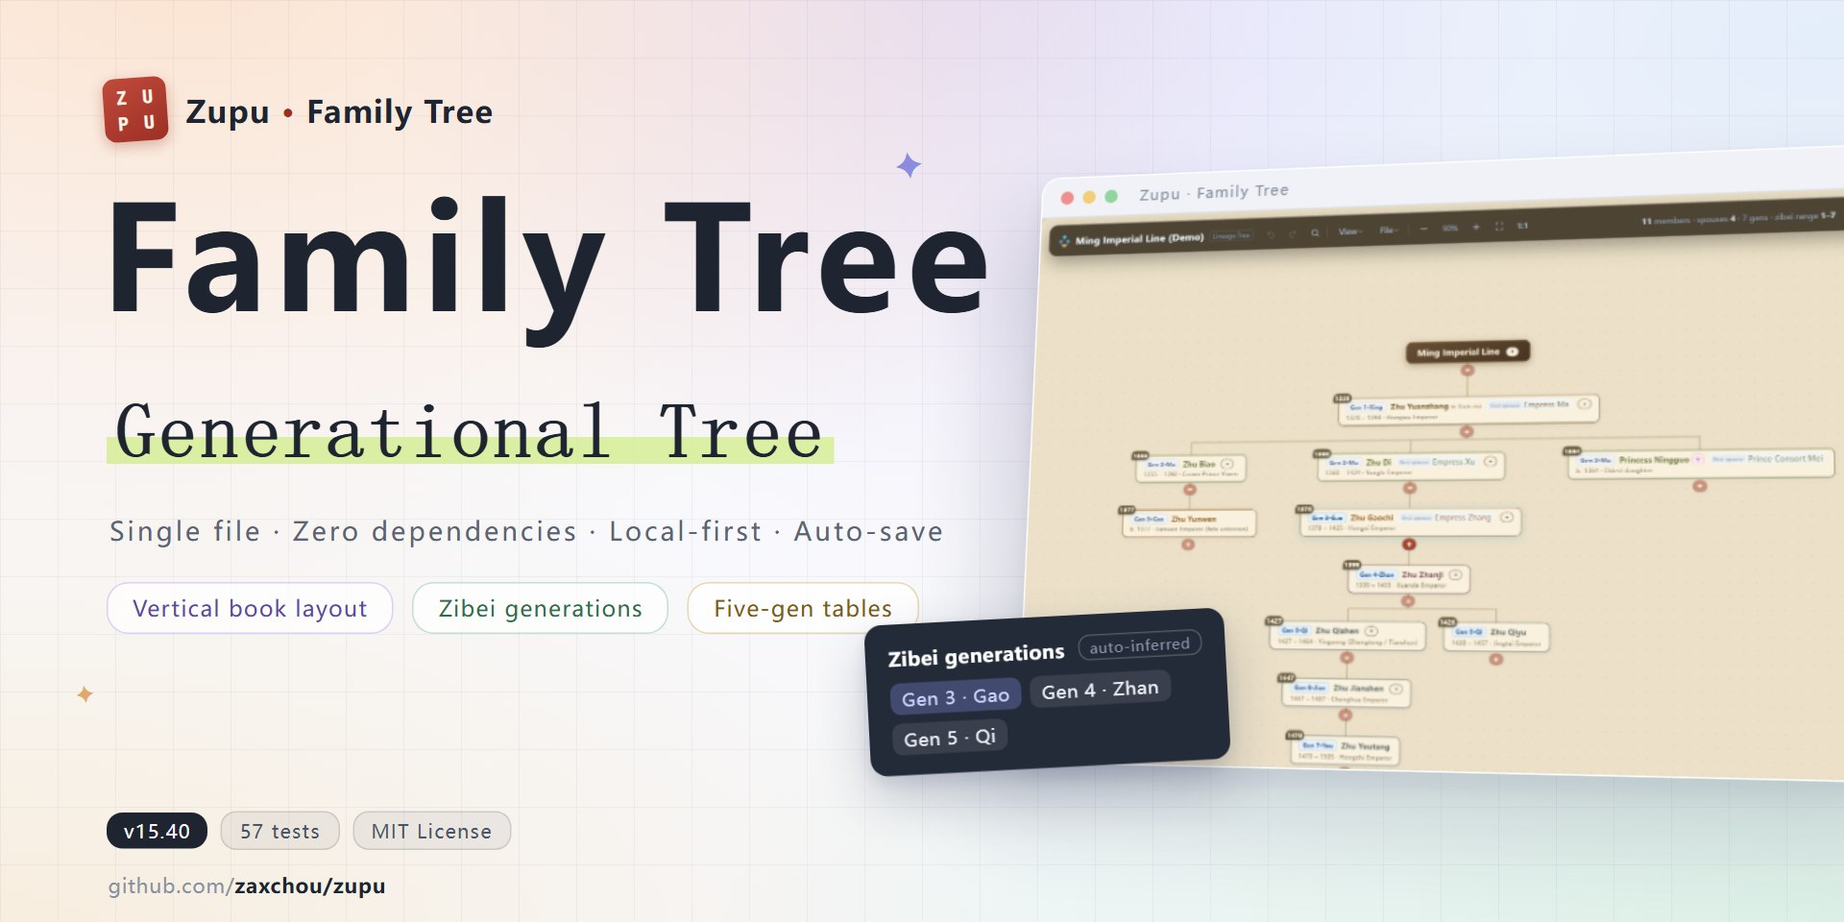
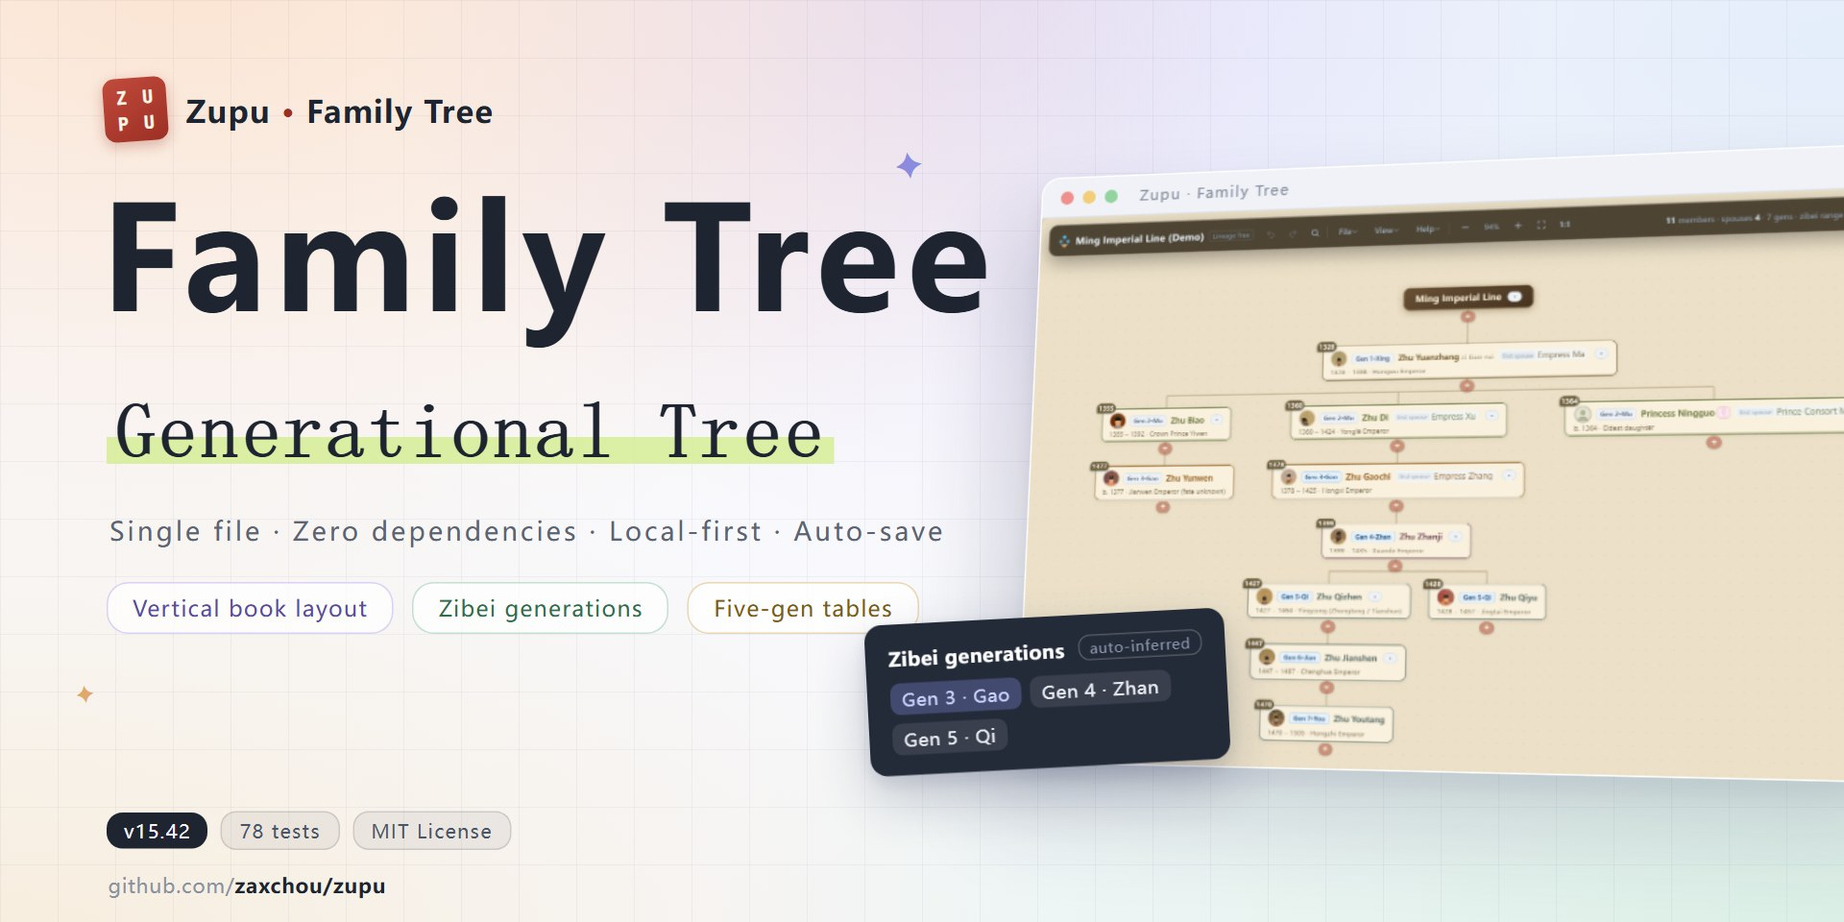
v15.42: refresh README, screenshots and covers; release notes

Changed region(s): [[0.5938, 0.2812, 1.0, 0.8438], [0.7812, 0.2188, 0.8125, 0.25]]

diff --git a/docs/_cover-v4.html b/docs/_cover-v4.html
@@ -116,7 +116,7 @@
   </div>
 
   <div class="foot">
-    <div class="tag">v15.40</div><div class="tag o">57 测试用例</div><div class="tag o">MIT License</div>
+    <div class="tag">v15.42</div><div class="tag o">78 测试用例</div><div class="tag o">MIT License</div>
   </div>
   <div class="github">github.com/<b>zaxchou/zupu</b></div>
 </body>

diff --git a/docs/_cover-zh-Hant-v4.html b/docs/_cover-zh-Hant-v4.html
@@ -116,7 +116,7 @@
   </div>
 
   <div class="foot">
-    <div class="tag">v15.40</div><div class="tag o">57 測試用例</div><div class="tag o">MIT License</div>
+    <div class="tag">v15.42</div><div class="tag o">78 測試用例</div><div class="tag o">MIT License</div>
   </div>
   <div class="github">github.com/<b>zaxchou/zupu</b></div>
 </body>

diff --git a/docs/_cover-ja-v4.html b/docs/_cover-ja-v4.html
@@ -117,7 +117,7 @@
   </div>
 
   <div class="foot">
-    <div class="tag">v15.40</div><div class="tag o">57 テスト</div><div class="tag o">MIT License</div>
+    <div class="tag">v15.42</div><div class="tag o">78 テスト</div><div class="tag o">MIT License</div>
   </div>
   <div class="github">github.com/<b>zaxchou/zupu</b></div>
 </body>

diff --git a/docs/_cover-en-v4.html b/docs/_cover-en-v4.html
@@ -117,7 +117,7 @@
   </div>
 
   <div class="foot">
-    <div class="tag">v15.40</div><div class="tag o">57 tests</div><div class="tag o">MIT License</div>
+    <div class="tag">v15.42</div><div class="tag o">78 tests</div><div class="tag o">MIT License</div>
   </div>
   <div class="github">github.com/<b>zaxchou/zupu</b></div>
 </body>

diff --git a/tools/build_covers.py b/tools/build_covers.py
@@ -11,11 +11,11 @@ import sys
 
 ROOT = os.path.dirname(os.path.dirname(os.path.abspath(__file__)))
 
-VERSION = 'v15.40'
-OLD_VERSION = 'v15.38'
+VERSION = 'v15.42'
+OLD_VERSION = 'v15.41'
 SUFFIXES = {'': '-v4', '-en': '-en-v4', '-ja': '-ja-v4', '-zh-Hant': '-zh-Hant-v4'}
-OLD_TAGS = {'': '55 测试用例', '-en': '55 tests', '-ja': '55 テスト', '-zh-Hant': '55 測試用例'}
-NEW_TAGS = {'': '57 测试用例', '-en': '57 tests', '-ja': '57 テスト', '-zh-Hant': '57 測試用例'}
+OLD_TAGS = {'': '57 测试用例', '-en': '57 tests', '-ja': '57 テスト', '-zh-Hant': '57 測試用例'}
+NEW_TAGS = {'': '78 测试用例', '-en': '78 tests', '-ja': '78 テスト', '-zh-Hant': '78 測試用例'}
 
 
 def update_template(suffix):

diff --git a/README.ja.md b/README.ja.md
@@ -2,14 +2,14 @@
 
 [简体中文](README.md) | [繁體中文](README.zh-Hant.md) | [English](README.en.md) | **日本語**
 
-<img src="docs/cover-ja.jpg?v=15.40" alt="家系図・伝代ツリー" width="100%">
+<img src="docs/cover-ja.jpg?v=15.42" alt="家系図・伝代ツリー" width="100%">
 
 # 家系図・伝代ツリー (Zupu)
 
 **ダブルクリックで使える電子家系図：家族を記録し、世代を自動判定、印刷して製本**
 
-[![Version](https://img.shields.io/badge/version-v15.40-b03a2e)](CHANGELOG.md)
-[![Tests](https://img.shields.io/badge/tests-57%20passing-2f6390)](tests)
+[![Version](https://img.shields.io/badge/version-v15.42-b03a2e)](CHANGELOG.md)
+[![Tests](https://img.shields.io/badge/tests-78%20passing-2f6390)](tests)
 [![Dependencies](https://img.shields.io/badge/dependencies-0-3c7a4e)]()
 [![License](https://img.shields.io/badge/license-MIT-8a7d68)](LICENSE)
 [![オンラインで試す](https://img.shields.io/badge/オンライン-デモ-b03a2e)](https://zaxchou.github.io/zupu/)
@@ -26,7 +26,7 @@
 
 | 通常ツリー | 譜書縦書き（古法） |
 | --- | --- |
-| ![通常ツリー](docs/preview-tree-ja.png?v=15.38) | ![縦書き](docs/preview-vertical-ja.png?v=15.38) |
+| ![通常ツリー](docs/preview-tree-ja.png?v=15.42) | ![縦書き](docs/preview-vertical-ja.png?v=15.42) |
 
 **譜書縦書き（古法）**は伝統的な族譜の体裁を再現：世代ごとに行をまとめ、名を縦書き
 （右→左）、行の左に世代を表示——印刷 / PDF 出力すればそのまま**製本できます**。
@@ -37,6 +37,16 @@
   ドラッグして兄弟の順序を変更。別のカードに重ねれば養縁。Ctrl+Z でいつでも元に戻る
 - **スマホ / タブレットも快適** — ドラッグで順序変更、長押しでメニュー、
   ダブルタップで改名、ピンチで拡大縮小。画面が狭いと表示を自動調整
+- **家族に写真を** — 「人物情報」で「写真を追加」すると、カードに丸いアバターが付いて
+  クリックで拡大。「ファイル ▾ → 写真フォルダを取り込む…」ならファイル名で自動照合して
+  一括設定。バックアップにオリジナルを添付することもでき、書き出した画像 / PDF にも
+  アバターが入ります
+- **見た目はワンクリックで切替** — 「表示 ▾ → 表示設定…」にまとまっています：配置方向4種
+  （上から下 / 下から上 / 左から右 / 右から左）、配色3種（羊皮紙 / 晴空 / ダーク）、
+  横書き / 譜書縦書きも、クリックしたその場で反映。再読み込み不要
+- **スクロールで拡大縮小、ドラッグで移動** — ホイールでそのままズーム、空白をつかんで
+  ドラッグで移動と、地図アプリ感覚。従来式のほうがよければ表示設定でオフにできます
+  （ホイールは画面のスクロール、Ctrl＋スクロールで拡大縮小）
 - **名前を書けば世代を自動判定** — 字輩表（例：明皇室の字輩詩「高瞻祁见祐」）を貼れば、各メンバーの
   世代を自動表示。譜書の世代数（廿三世など）とも基準合わせできます
 - **印刷すれば本物の譜書の体裁** — 縦書き、世代ごとの行、五世一表。PDF で書き出して
@@ -62,7 +72,7 @@
 **方法 2**：`git clone` して `index-ja.html` をダブルクリック。
 
 自分の家族を記録する：名前をダブルクリックで変更、「＋」でメンバー追加、
-「表示 ▾ → 譜序」で譜名 / 字輩表 / 系統を設定——すべて自分の家のものに。
+「ファイル ▾ → 譜序…」で譜名 / 字輩表 / 系統を設定——すべて自分の家のものに。
 
 ## ❓ よくある質問
 

diff --git a/README.en.md b/README.en.md
@@ -2,14 +2,14 @@
 
 [简体中文](README.md) | [繁體中文](README.zh-Hant.md) | **English** | [日本語](README.ja.md)
 
-<img src="docs/cover-en.jpg?v=15.40" alt="Zupu · Family Tree" width="100%">
+<img src="docs/cover-en.jpg?v=15.42" alt="Zupu · Family Tree" width="100%">
 
 # Zupu · Family Tree
 
 **A double-click electronic genealogy: record your family, auto-number generations, print & bind**
 
-[![Version](https://img.shields.io/badge/version-v15.40-b03a2e)](CHANGELOG.md)
-[![Tests](https://img.shields.io/badge/tests-57%20passing-2f6390)](tests)
+[![Version](https://img.shields.io/badge/version-v15.42-b03a2e)](CHANGELOG.md)
+[![Tests](https://img.shields.io/badge/tests-78%20passing-2f6390)](tests)
 [![Dependencies](https://img.shields.io/badge/dependencies-0-3c7a4e)]()
 [![License](https://img.shields.io/badge/license-MIT-8a7d68)](LICENSE)
 [![Try online](https://img.shields.io/badge/try%20it-online-b03a2e)](https://zaxchou.github.io/zupu/)
@@ -26,7 +26,7 @@ browser, and every change is saved automatically.
 
 | Standard tree | In-page profile editor |
 | --- | --- |
-| ![Standard tree](docs/preview-tree-en.png?v=15.38) | ![Profile editor](docs/preview-vertical-en.png?v=15.38) |
+| ![Standard tree](docs/preview-tree-en.png?v=15.42) | ![Profile editor](docs/preview-vertical-en.png?v=15.42) |
 
 Every member has an **in-page profile editor** (name, dates, sex, adoption, courtesy /
 art names, spouse terms, notes). A **vertical book layout** following the conventions
@@ -39,6 +39,17 @@ top-to-bottom (right to left) — print it / export it to PDF and **bind it into
   to reorder siblings; drop one onto another to adopt. Ctrl+Z undoes anything
 - **Made for phones & tablets too** — drag to reorder, long-press for menus,
   double-tap to rename, pinch to zoom; the UI trims itself on small screens
+- **Put a face to every name** — click “Add photo” in the profile and the card instantly
+  shows a round avatar; click the avatar to see it large. “File ▾ → Import photo folder…”
+  matches a whole folder of photos by file name, backups can carry the originals, and
+  exports to PNG / PDF include the avatars
+- **Make it look the way you want** — “View ▾ → Visual settings…” gathers it all in one
+  place: four growth directions (top to bottom / bottom to top / left to right / right to
+  left), three color themes (Parchment / Sky / Dark), horizontal or vertical book layout —
+  every change applies on the spot, no reload
+- **Scroll to zoom, drag to pan** — the wheel zooms straight in and out, and grabbing any
+  empty spot pans the tree, like a map app; prefer the old way? Turn direct zoom off in
+  Visual settings (wheel scrolls the page, Ctrl+scroll zooms)
 - **Names in, generations out** — paste your generation-char list (e.g. the real Ming imperial poem “高瞻祁见祐”) and
   everyone's generation is numbered automatically; align it with your old book, so “the 23rd
   generation” there reads “the 23rd generation” here
@@ -70,7 +81,7 @@ double-click it; a first-run wizard appears:
 **Option 2**: `git clone` this repo and double-click `index-en.html`.
 
 To record your own family: double-click a name to rename, click “＋” to add members,
-“View ▾ → Preface” sets the tree name / generation chars / lineage —
+“File ▾ → Preface…” sets the tree name / generation chars / lineage —
 make it entirely yours.
 
 ## ❓ FAQ

diff --git a/README.md b/README.md
@@ -2,14 +2,14 @@
 
 **中文（简体）** | [繁體中文](README.zh-Hant.md) | [English](README.en.md) | [日本語](README.ja.md)
 
-<img src="docs/cover.jpg?v=15.40" alt="家族族谱 · 传代树" width="100%">
+<img src="docs/cover.jpg?v=15.42" alt="家族族谱 · 传代树" width="100%">
 
 # 家族族谱 · 传代树 (Zupu)
 
 **双击就能用的电子族谱：录入家人、自动算辈分、打印装订成册**
 
-[![Version](https://img.shields.io/badge/version-v15.40-b03a2e)](CHANGELOG.md)
-[![Tests](https://img.shields.io/badge/tests-57%20passing-2f6390)](tests)
+[![Version](https://img.shields.io/badge/version-v15.42-b03a2e)](CHANGELOG.md)
+[![Tests](https://img.shields.io/badge/tests-78%20passing-2f6390)](tests)
 [![Dependencies](https://img.shields.io/badge/dependencies-0-3c7a4e)]()
 [![License](https://img.shields.io/badge/license-MIT-8a7d68)](LICENSE)
 [![在线试用](https://img.shields.io/badge/在线试用-点击演示-b03a2e)](https://zaxchou.github.io/zupu/)
@@ -29,6 +29,14 @@
   拖到别人名下就是过继；做错了 Ctrl+Z 随时撤销
 - **手机 / iPad 也顺手** — 触摸拖动调长幼、长按卡片呼出菜单、双击改名、
   双指捏合缩放；屏幕变窄自动精简界面
+- **给家人配上照片** — 「人员档案」里点「添加照片」，卡片立刻显示圆形头像，点头像看大图；
+  「文件 ▾ → 导入照片文件夹…」按文件名一次配好全家的照片，备份可连原图一起带走，
+  导出图片 / PDF 也带着头像
+- **版式配色，点了就换** — 「查看 ▾ → 视觉设置…」把样式集中在一处：排列方向四选
+  （从上到下 / 从下到上 / 从左到右 / 从右到左），配色三选（羊皮纸 / 晴空 / 暗色），
+  横排 / 谱书竖排即点即换，不用刷新
+- **滚轮直接缩放、拖空白平移** — 像看地图一样顺手；不习惯可在视觉设置里关掉，
+  改回滚轮滚动页面、Ctrl＋滚轮才缩放
 - **名字写上，辈分自动算** — 把你家的字辈贴进去（如明朝皇室字辈诗“高瞻祁见祐”），每个人是第几代自动标出来；
   还能对齐老谱：老谱记“廿三世”，这里也显示“廿三世”
 - **打印出来是一本老谱的样子** — 竖排文字、世代成行、五代一张表，导出 PDF 直接送打印店装订成册；
@@ -41,7 +49,7 @@
 
 | 常规传代树 | 谱书竖排（古法） |
 | --- | --- |
-| ![常规传代树](docs/preview-tree.png?v=15.38) | ![谱书竖排](docs/preview-vertical.png?v=15.38) |
+| ![常规传代树](docs/preview-tree.png?v=15.42) | ![谱书竖排](docs/preview-vertical.png?v=15.42) |
 
 **谱书竖排**按传统修谱版式还原：世代成行、名字竖书（右→左）、行左标世数、墨字吊线——
 打印 / 导出 PDF 即可**装订成册**。
@@ -60,7 +68,7 @@
 
 **方式二**：`git clone` 本仓库后双击 `index.html`。
 
-录入自己家族：双击名字改名、点「＋」添加成员、「视图 ▾ → 谱序」设置谱名 / 堂号 /
+录入自己家族：双击名字改名、点「＋」添加成员、「文件 ▾ → 谱序…」设置谱名 / 堂号 /
 字辈表 / 源流——全部改成你家的。`samples/` 里有真实家族的使用示例可以导入参考。
 
 ## ❓ 常见问题

diff --git a/README.zh-Hant.md b/README.zh-Hant.md
@@ -2,14 +2,14 @@
 
 [简体中文](README.md) | **繁體中文** | [English](README.en.md) | [日本語](README.ja.md)
 
-<img src="docs/cover-zh-Hant.jpg?v=15.40" alt="家族族譜 · 傳代樹" width="100%">
+<img src="docs/cover-zh-Hant.jpg?v=15.42" alt="家族族譜 · 傳代樹" width="100%">
 
 # 家族族譜 · 傳代樹 (Zupu)
 
 **雙擊就能用的電子族譜：錄入家人、自動算輩分、列印裝訂成冊**
 
-[![Version](https://img.shields.io/badge/version-v15.40-b03a2e)](CHANGELOG.md)
-[![Tests](https://img.shields.io/badge/tests-57%20passing-2f6390)](tests)
+[![Version](https://img.shields.io/badge/version-v15.42-b03a2e)](CHANGELOG.md)
+[![Tests](https://img.shields.io/badge/tests-78%20passing-2f6390)](tests)
 [![Dependencies](https://img.shields.io/badge/dependencies-0-3c7a4e)]()
 [![License](https://img.shields.io/badge/license-MIT-8a7d68)](LICENSE)
 [![線上試用](https://img.shields.io/badge/線上試用-點擊演示-b03a2e)](https://zaxchou.github.io/zupu/)
@@ -26,7 +26,7 @@
 
 | 常規傳代樹 | 譜書豎排（古法） |
 | --- | --- |
-| ![常規傳代樹](docs/preview-tree-zh-Hant.png?v=15.38) | ![譜書豎排](docs/preview-vertical-zh-Hant.png?v=15.38) |
+| ![常規傳代樹](docs/preview-tree-zh-Hant.png?v=15.42) | ![譜書豎排](docs/preview-vertical-zh-Hant.png?v=15.42) |
 
 **譜書豎排**按傳統修譜版式還原：世代成行、名字豎書（右→左）、行左標世數、墨字吊線——
 列印 / 匯出 PDF 即可**裝訂成冊**。
@@ -37,6 +37,14 @@
   拖到別人名下就是過繼；做錯了 Ctrl+Z 隨時復原
 - **手機 / iPad 也順手** — 觸控拖動調長幼、長按卡片呼出選單、雙擊改名、
   雙指捏合縮放；螢幕變窄自動精簡介面
+- **為家人配上照片** — 「人員檔案」裡點「新增照片」，卡片立刻顯示圓形頭像，點頭像看大圖；
+  「檔案 ▾ → 匯入照片資料夾…」按檔名一次配好全家的照片，備份可連原圖一起帶走，
+  匯出圖片 / PDF 也帶著頭像
+- **版式配色，點了就換** — 「檢視 ▾ → 視覺設定…」把樣式集中在一處：排列方向四選
+  （從上到下 / 從下到上 / 從左到右 / 從右到左），配色三選（羊皮紙 / 晴空 / 暗色），
+  橫排 / 譜書豎排即點即換，不用重新整理
+- **滾輪直接縮放、拖空白平移** — 像看地圖一樣順手；不習慣可在視覺設定裡關掉，
+  改回滾輪捲動頁面、Ctrl＋滾輪才縮放
 - **名字寫上，輩分自動算** — 把你家的字輩貼進去（如明朝皇室字輩詩「高瞻祁見祐」），每個人是第幾代自動標出來；
   還能對齊老譜：老譜記「廿三世」，這裡也顯示「廿三世」
 - **列印出來是一本老譜的樣子** — 豎排文字、世代成行、五代一張表，匯出 PDF 直接送印刷廠裝訂成冊；
@@ -62,7 +70,7 @@
 
 **方式二**：`git clone` 本倉庫後雙擊 `index-zh-Hant.html`。
 
-錄入自己家族：雙擊名字改名、點「＋」新增成員、「檢視 ▾ → 譜序」設定譜名 / 堂號 /
+錄入自己家族：雙擊名字改名、點「＋」新增成員、「檔案 ▾ → 譜序…」設定譜名 / 堂號 /
 字輩表 / 源流——全部改成你家的。
 
 ## ❓ 常見問題

diff --git a/handoff.md b/handoff.md
@@ -327,5 +327,7 @@ with sync_playwright() as p:
 ]全支持（微信群名单直接粘贴），输入顺序=长幼（先输入=年长排左）；③实时计数「将添加 N 人」+ 目标显性化（标题写死挂载对象）防加错；④整批一次撤销（pushHistory 一次+循环插入）；⑤默认不标性别（谱书惯例男不标），女儿档案里改；⑥uip 系弹窗（输入/文本/粘贴/批量）源头变量化主题化；⑦XHS 抽取锚定事故修复+体积哨兵；⑧t_batch×2 回归，15 模块 55 用例；⑨坑：build_i18n 生成器引号嵌套炸 builder（git checkout 恢复后用引号安全生成器重做） |
 
 | v15.40 | **往上加一辈（2026-09-09）**：①右键菜单「＋ 父辈…」（仅非根）：在节点上方插入父辈，节点及其后代整体下移一辈；②可选「同辈一起上移」（整辈下移）——第一代整辈记晚的修正；中段插入=修树中缺一代；③弹窗写明影响范围，整步一次撤销；④世代：按世系推算的自动顺延，字辈 match 的成员保持钉定（tooltip 提示冲突），zibei 基准由用户自行调整；⑤EN/JA 全套对子；⑥uip 系 checkline 对比度修正；⑦坑：build_covers 常量与模板再次错位（v15.39 的版本号补丁没进提交）——发版检查单应包含"常量/模板/产物三者一致" |
+| v15.41 | **画布自由拖动（2026-09-09，漏记补行）**：fit 视图滚动范围为 0 导致拖不动 → 引入恒定 2400px 余量画布平面，任何缩放级别均可拖动；拖动抑制文字误选；新增 t_wheel_mode_persistence_and_burst（滚轮模式持久化/快速滚轮累计/拖动中断缩放动画） |
+| v15.42 | **视觉设置、四向排列与成员照片（2026-10-31，连续四次推送）**：①顶部整理为文件/查看/帮助，查看→视觉设置集中四向排列（真实坐标布局不旋转文字）+三主题+横竖排+滚轮开关，即时保存，镜头保持关注成员；②CSS zoom 排版缩放修放大清晰度（transform 回退），fitToScreen 避让浮动层（availableCanvasRect）；③成员照片第一期：IndexedDB 原图+96px 缩略图随数据、头像/灯箱、文件夹批量导入（确认时才压缩、并发池5）、备份含原图（fullPhotos）、showPhotos 开关、roundRect arcTo 兜底、照片不入撤销栈+惰性 GC；④deep review 修 4 问题（假报保存成功/批量 OOM/头像拖拽/取消竞态）各补回归；⑤示例谱自动补帝王头像：demoPhotoUpgrade 仅 demo:true 且无 photoRev/photoThumb 才注入，用户数据零碰；⑥demo 嵌台北故宫坐像×10（建文/代宗后世摹本、宁国公主剪影，谱序如实标注），EN/JA 种子需单独注入头像（i18n 不携带主本种子照片）；⑦Pages deploy 秒败无描述=GH 队列故障，空提交重触发；⑧17 模块 78 用例（t_photo 12） |
 
 *交接完毕。有问题先看 §8 踩坑记录，再改代码；每改一处跑一遍 §9 回归。*

diff --git a/CHANGELOG.md b/CHANGELOG.md
@@ -2,23 +2,26 @@
 
 本文件记录面向用户的重要变化；完整的逐版本开发记录见 [handoff.md](handoff.md) §11。
 
-## 未发布 · 成员照片
+## v15.42（2026-10-31）· 视觉设置、四向排列与成员照片
+
+**画布操作（图片查看器式）**
+
+- 滚轮直接缩放（围绕光标），左键按住空白拖动即可平移；「视觉设置」可关闭，恢复滚轮平移、Ctrl＋滚轮缩放。
+- 适应屏幕避开顶部工具栏与底部提示；支持的浏览器按目标倍率重新排版文字，放大更清晰。
+
+**视觉设置与四向排列**
+
+- 顶部整理为「文件」「查看」「帮助」；「查看 → 视觉设置」集中排列方向、配色与文字排版，选中即生效并保存在本浏览器。
+- 支持从上到下、从下到上、从左到右、从右到左排列；姓名保持正向阅读，亲子关系与长幼次序不变。
+- 羊皮纸、晴空、暗色直接展示；世代基准、姓氏与配偶称谓收进「其他显示项」。
+
+**成员照片**
 
 - 「档案」里可给成员添加照片：原图只存本机照片库（IndexedDB，不上传），缩略图随族谱数据走。
 - 卡片显示圆形头像，无照片用中性剪影；点头像看大图；可在视觉设置里整体关闭头像显示。
 - 「文件 ▾ 导入照片文件夹…」按文件名批量匹配成员照片；「备份（含照片原图）」换电脑不丢原图。
 - 导出 PNG / PDF 带照片；老浏览器导出兼容修复（roundRect）。
-- demo 明朝帝系内置十位帝王画像（台北故宫藏坐像，公有领域）；建文帝、代宗为后世摹本，宁国公主无传世画像用剪影，谱序中如实标注。
-
-## 未发布 · 视觉设置与四向排列
-
-- 顶部整理为「文件」「查看」「帮助」；在「查看 → 视觉设置」集中选择排列方向、配色与文字排版。
-- 支持从上到下、从下到上、从左到右、从右到左排列；姓名保持正向阅读，亲子关系与长幼次序不变。
-- 羊皮纸、晴空、暗色直接展示；世代基准、姓氏与配偶称谓收进「其他显示项」。视觉选择即时生效，并保存在本浏览器。
-- 默认滚轮围绕光标缩放、左键拖空白平移，可关闭直接滚轮缩放以恢复原操作方式。
-- 支持的浏览器使用排版缩放重新绘制文字，移除常驻缩放合成提示；适应屏幕避开浮动工具栏。
-- 同步四向连线、拖动命中、PNG/PDF 与方向打印；保留默认常规视图的打印大纲。
-- 补齐设置键盘操作与保存失败提示、重试；四语言同步。
+- demo 明朝帝系内置十位帝王画像（台北故宫藏坐像，公有领域）；建文帝、代宗为后世摹本，宁国公主无传世画像用剪影，谱序中如实标注。老访客浏览器里的示例谱会自动补上头像；用户自传的照片与真实族谱数据永不覆盖。
 
 ## v15.41（2026-09-09）· 画布自由拖动
 
